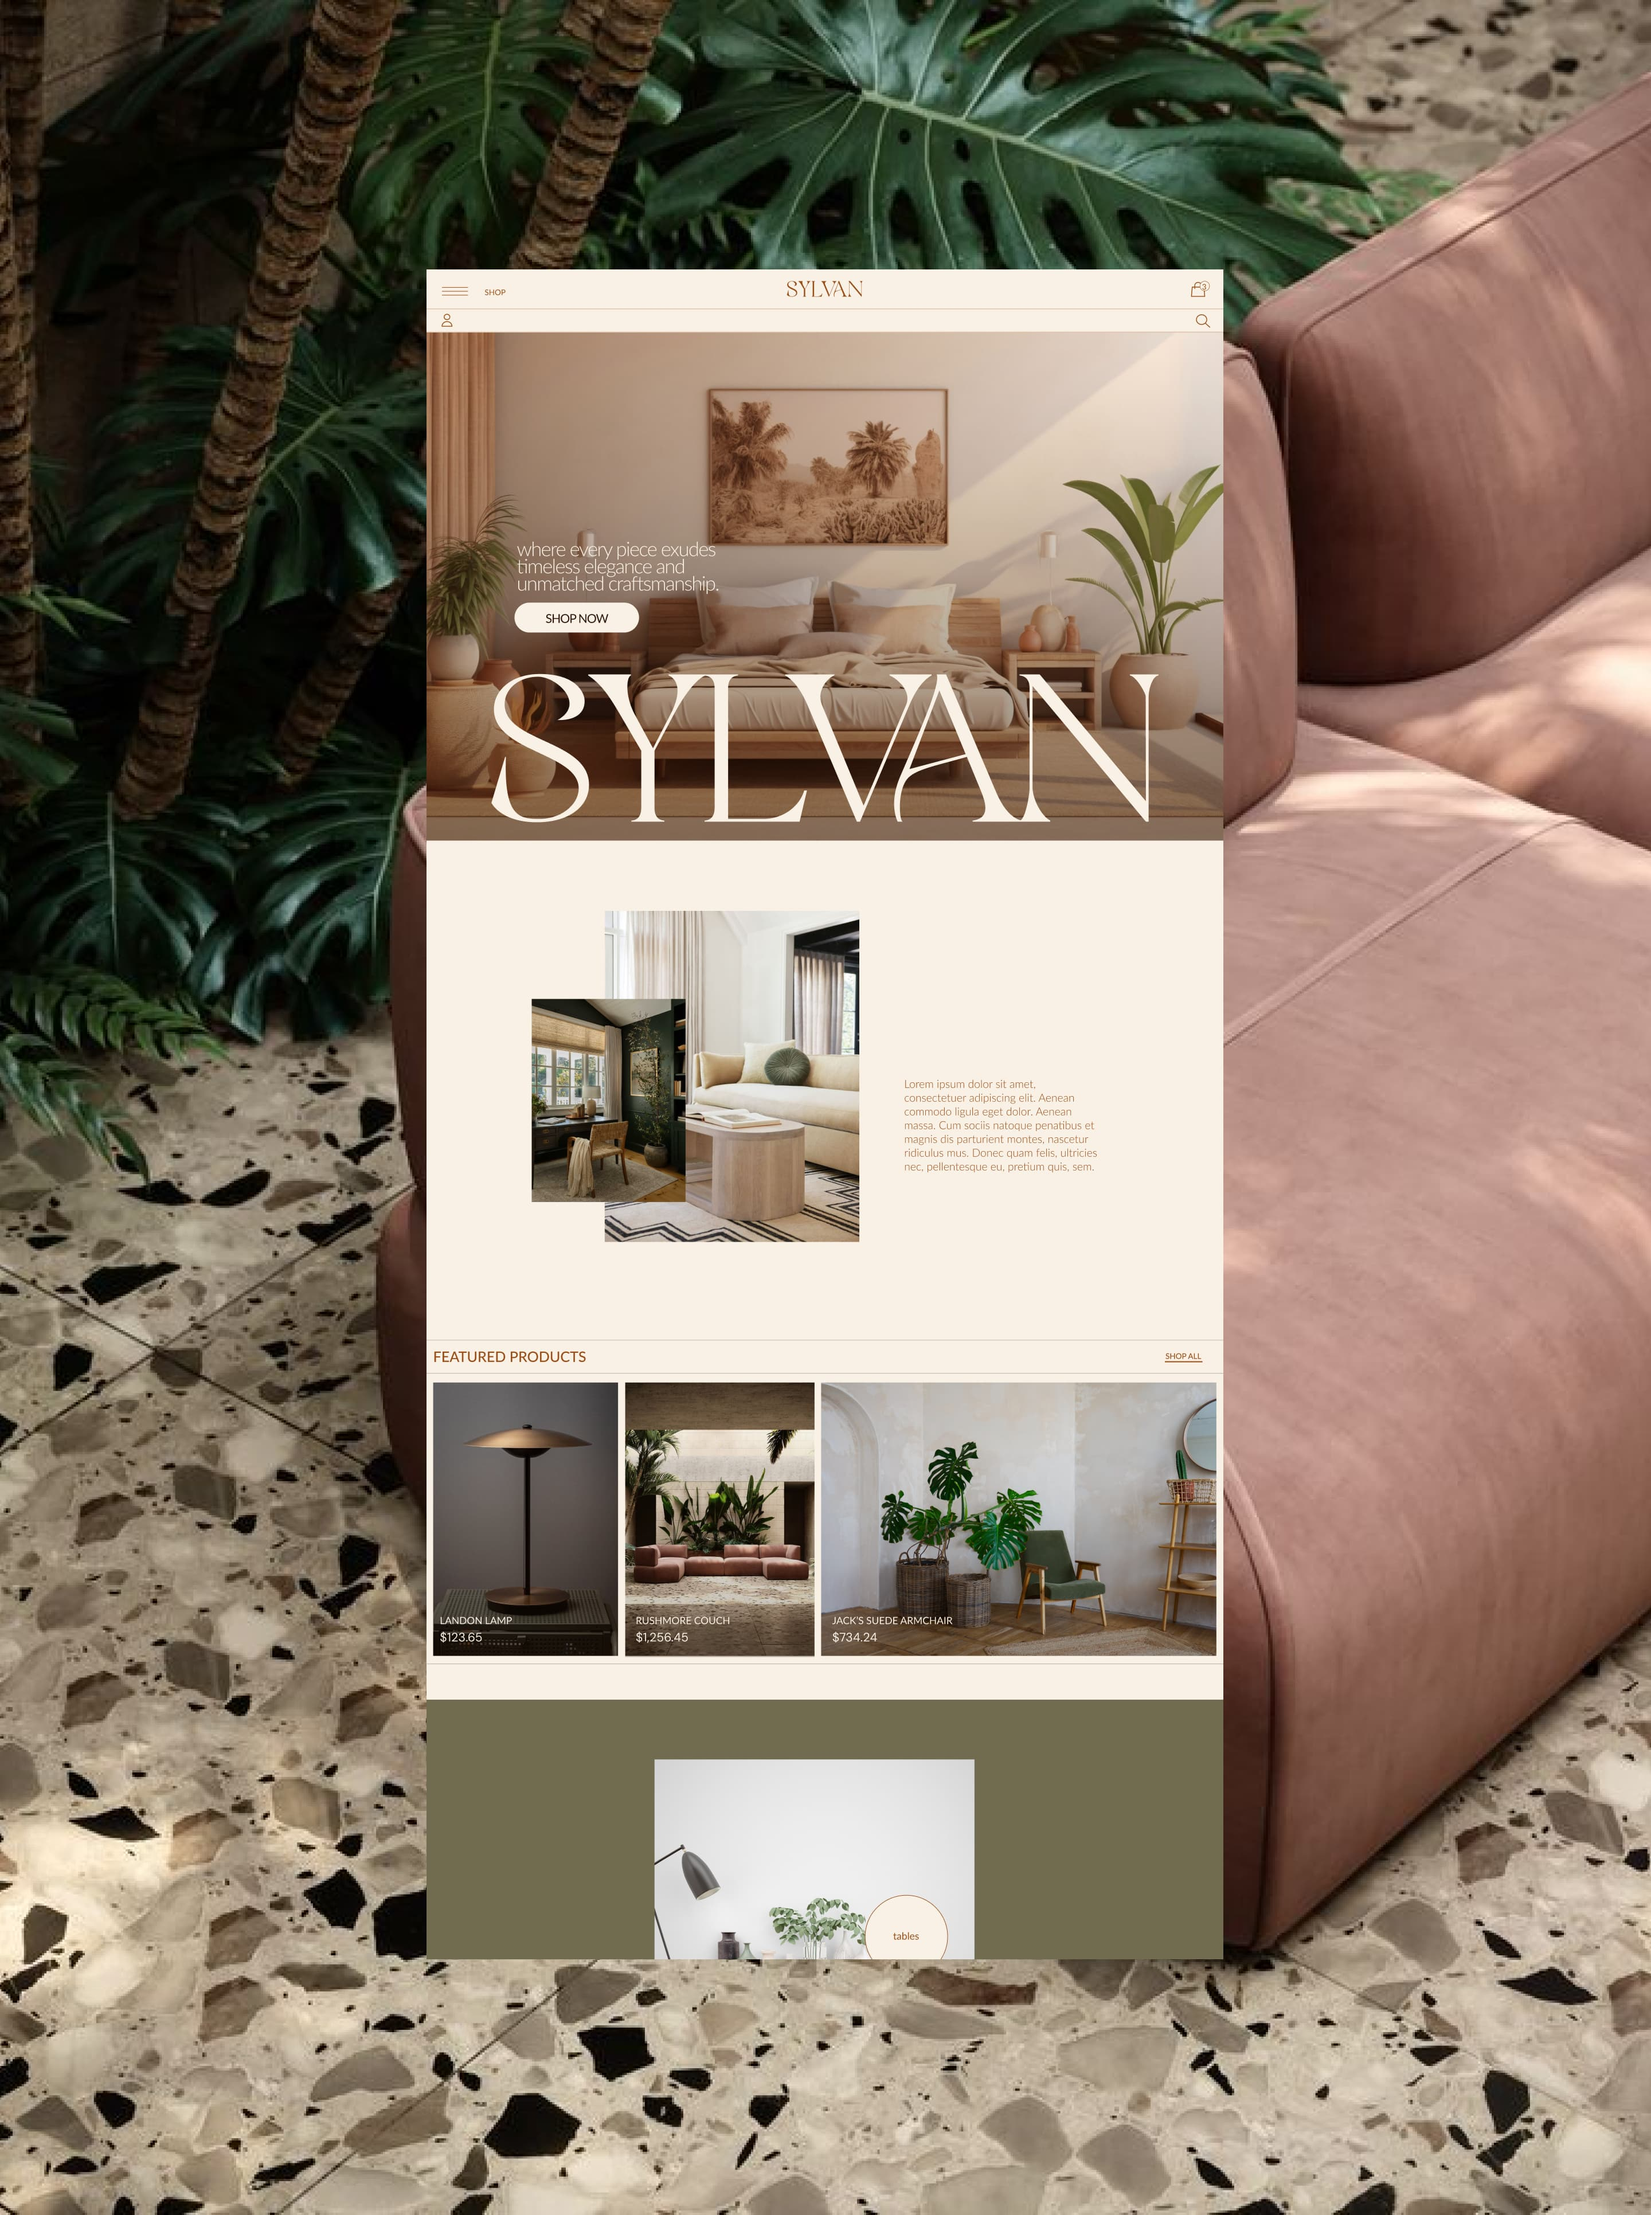
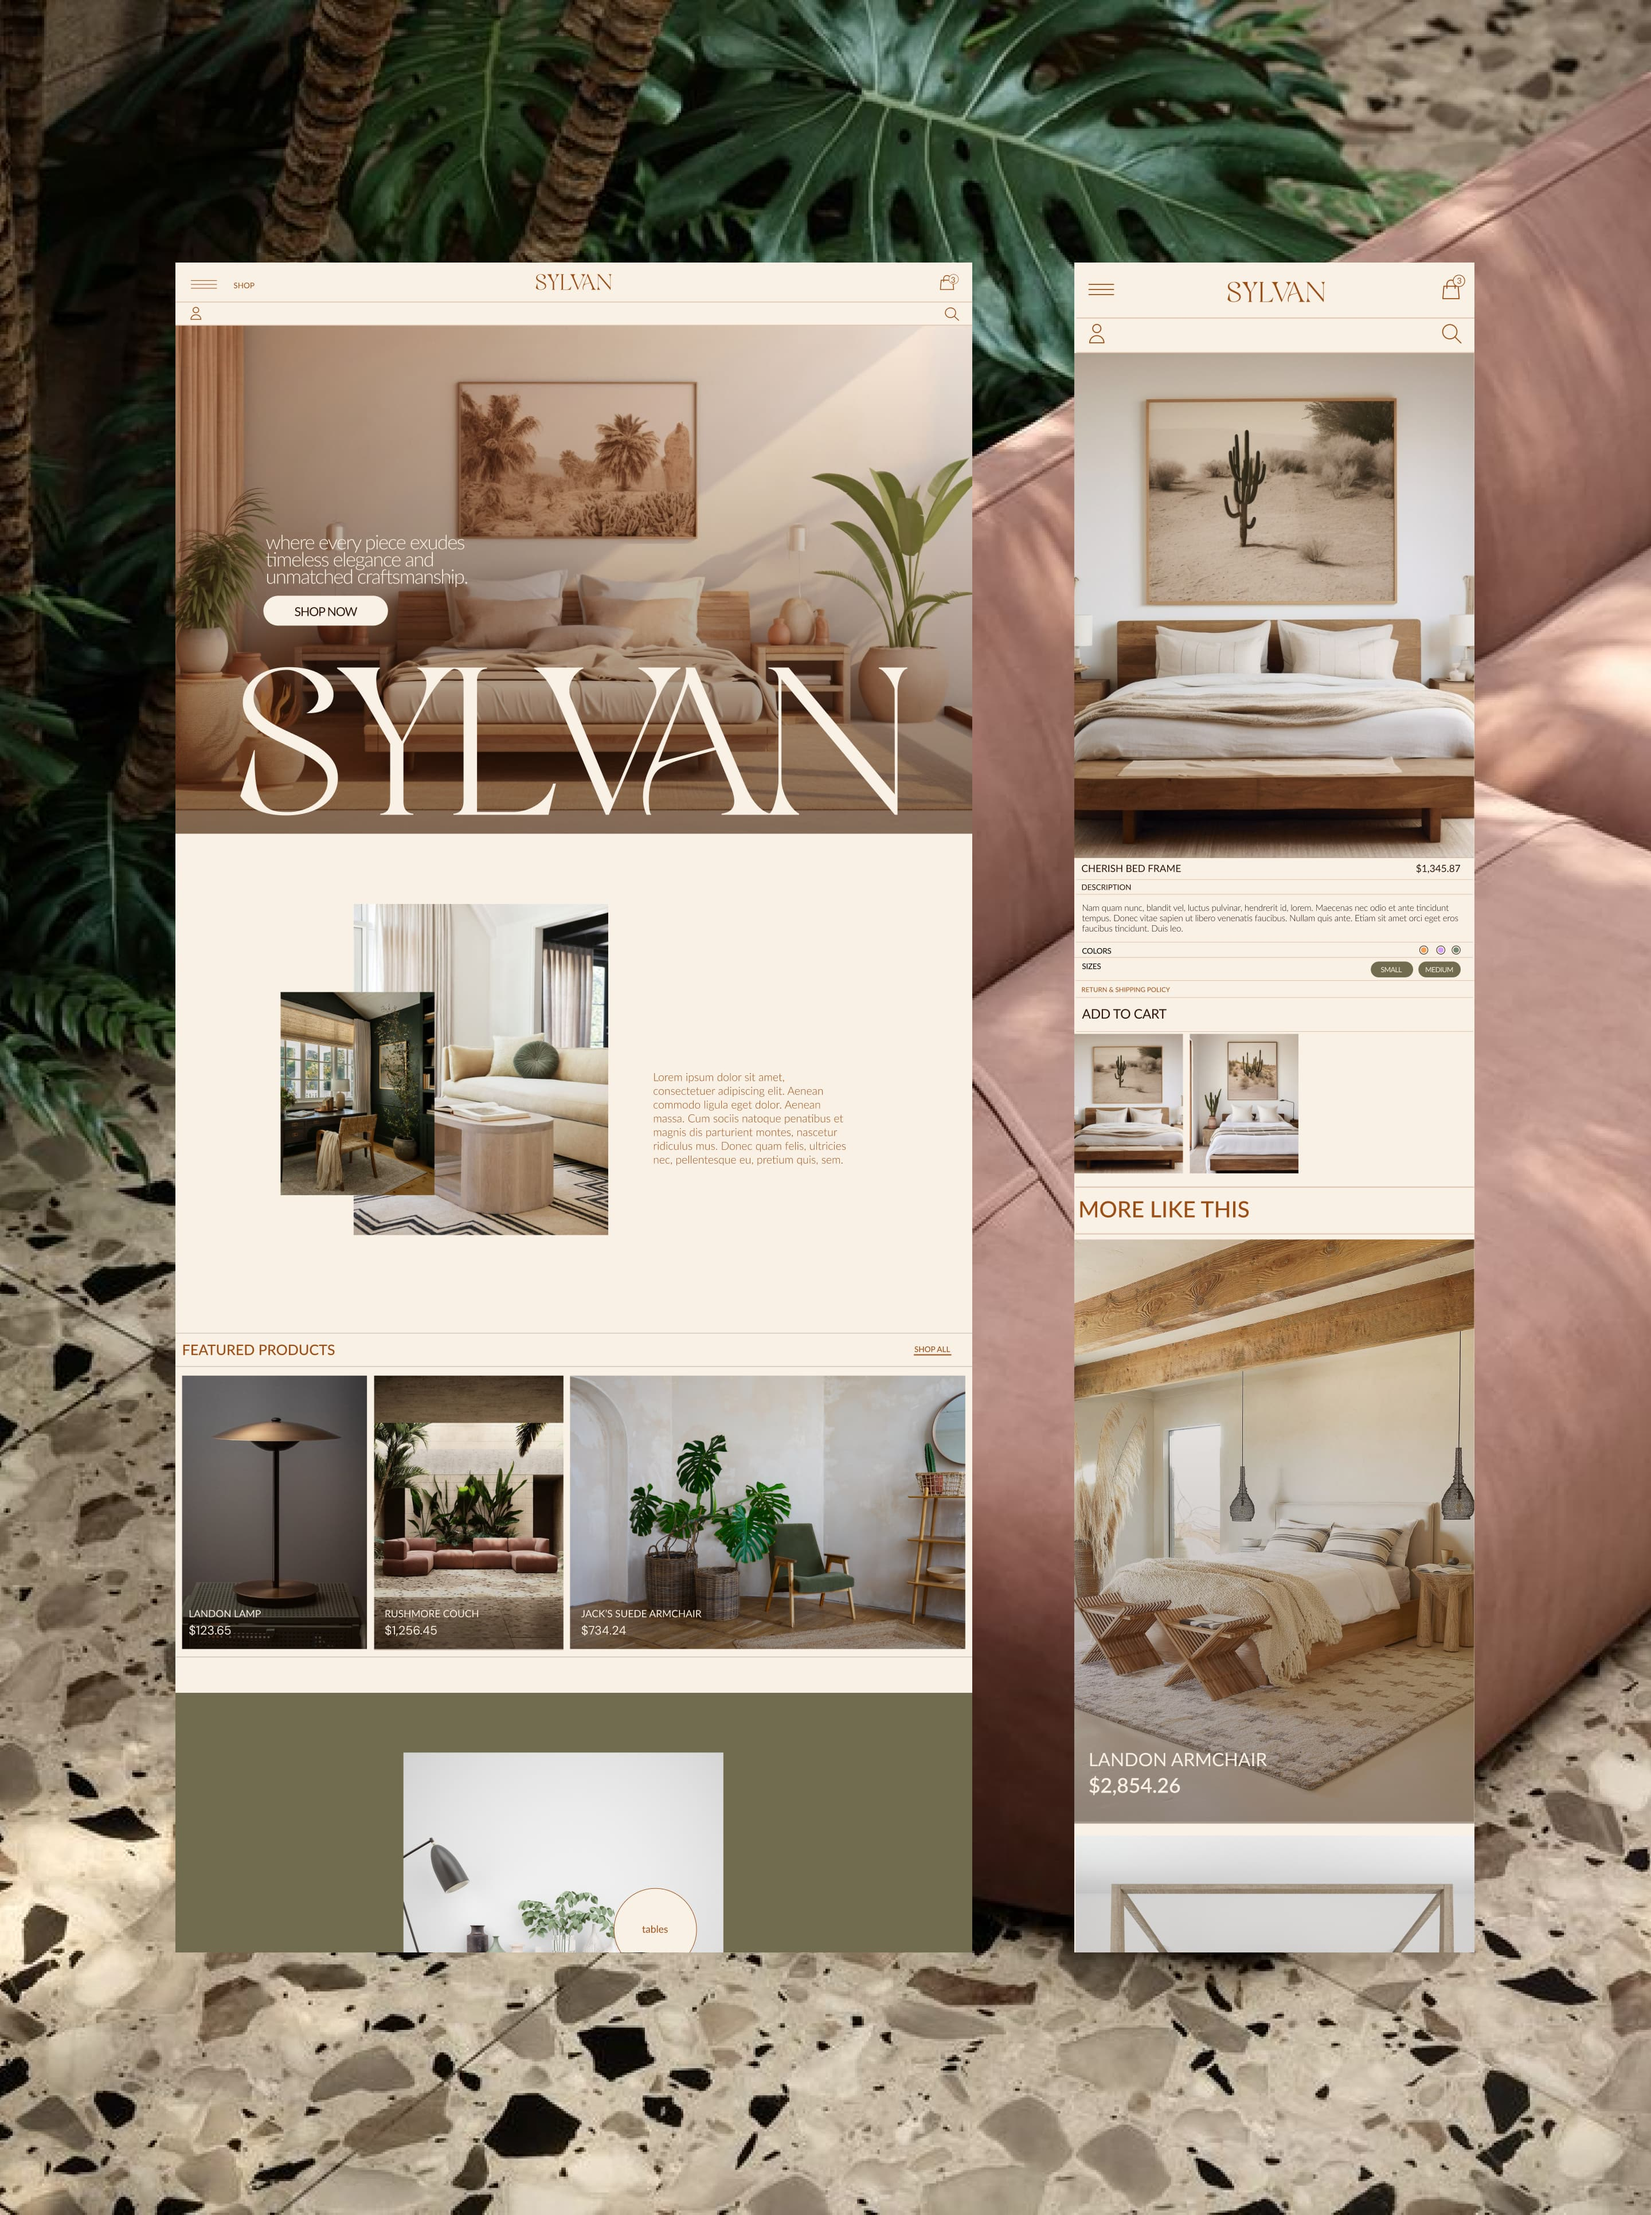
added animations

diff --git a/src/components/Home/About.tsx b/src/components/Home/About.tsx
@@ -7,6 +7,7 @@ import Image from "next/image";
 import Paragraph from "../Paragraph";
 import { useGSAP } from "@gsap/react";
 import gsap from "gsap";
+import { motion } from "framer-motion";
 
 function About() {
   const image1 = useRef(null);
@@ -15,7 +16,7 @@ function About() {
 
   useGSAP(() => {
     gsap.to(image1.current, {
-      scale: 1.06,
+      y: "10%",
       ease: "power1.inOut",
       scrollTrigger: {
         trigger: image1.current,
@@ -24,7 +25,7 @@ function About() {
         scrub: true,
       },
     });
-    
+
     var tl = gsap.timeline({
       ease: "power1.inOut",
       scrollTrigger: {
@@ -36,42 +37,71 @@ function About() {
     });
 
     tl.from(image2Div.current, {
-      yPercent: 10
+      yPercent: 10,
     }).to(image2Div.current, {
       yPercent: -5,
     });
   });
 
+  const textVariant = {
+    initial: {
+      y: "120%",
+      rotateZ: 5
+    },
+    animate: {
+      y: 0,
+      rotateZ: 0,
+      transition: {
+        duration: 1,
+        ease: [0.87, 0, 0.13, 1],
+        // delay: .2
+      }
+    }
+  }
+
   return (
     <section className="py-[15vh]">
       <div>
-        <h3
-          className={`${spectralBridgeRegular.className} text-[5.5vw] pr-[15vw] leading-[1]`}
-        >
-          I promote <span className="italic">fresh</span> and creative{" "}
-          <span className="italic">ideas</span> and bring them to life.
-        </h3>
-        <h3
-          className={`${spectralBridgeRegular.className} text-[5.5vw] pl-[15vw] leading-[1]`}
-        >
-          With my skills, I <span className="italic">deliver </span>
-          quality products from start to <span className="italic">
-            finish
-          </span>{" "}
-          .
-        </h3>
+        <div className="overflow-hidden">
+          <motion.h3
+            variants={textVariant}
+            initial="initial"
+            whileInView="animate"
+            viewport={{ once: true }}
+            className={`${spectralBridgeRegular.className} text-[5.5vw] pr-[15vw] leading-[1]`}
+          >
+            I promote <span className="italic">fresh</span> and creative{" "}
+            <span className="italic">ideas</span> and bring them to life.
+          </motion.h3>
+        </div>
+        <div className="overflow-hidden">
+          <motion.h3
+            variants={textVariant}
+            initial="initial"
+            whileInView="animate"
+            viewport={{ once: true }}
+            className={`${spectralBridgeRegular.className} text-[5.5vw] pl-[15vw] leading-[1]`}
+          >
+            With my skills, I <span className="italic">deliver </span>
+            quality products from start to{" "}
+            <span className="italic">finish</span> .
+          </motion.h3>
+        </div>
       </div>
       <div className="mt-10 flex flex-col-reverse md:flex-row gap-y-4 md:gap-y-0 md:max-h-screen">
         <div className="md:flex-1 object-cover object-center overflow-hidden">
           <Image
             src={Image1}
             alt="sjsh"
-            className="w-full h-full"
+            className="w-full h-full scale-110"
             ref={image1}
           />
         </div>
         <div className="md:flex-1 flex justify-center items-center">
-          <div className="w-full h-full md:w-[80%] md:h-[80%] object-cover object-left-top overflow-hidden" ref={image2Div}>
+          <div
+            className="w-full h-full md:w-[80%] md:h-[80%] object-cover object-left-top overflow-hidden"
+            ref={image2Div}
+          >
             <Image
               src={Image2}
               alt="sjsh"

diff --git a/src/utils/works.ts b/src/utils/works.ts
@@ -8,7 +8,7 @@ import ElysianOutro2 from '../../public/images/elysian/imagesOutro2.jpg'
 import ElysianOutro3 from '../../public/images/elysian/imagesOutro3.png'
 import ElysianIntro from '../../public/images/elysian/introImage.png'
 
-import SylvanMiddle1 from '../../public/images/sylvan/imagesMiddle1.png'
+import SylvanMiddle1 from '../../public/images/sylvan/imagesMiddle1.jpg'
 import SylvanMiddle2 from '../../public/images/sylvan/imagesMiddle2.png'
 import SylvanMiddle3 from '../../public/images/sylvan/imagesMiddle3.jpg'
 import SylvanOutro1 from '../../public/images/sylvan/imagesOutro1.jpg'
@@ -29,8 +29,8 @@ import LofiMiddle1 from '../../public/images/lofi_train/imagesMiddle1.gif'
 import LofiMiddle2 from '../../public/images/lofi_train/imagesMiddle2.jpg'
 import LofiMiddle3 from '../../public/images/lofi_train/imagesMiddle3.jpg'
 import LofiOutro1 from '../../public/images/lofi_train/imagesOutro1.gif'
-import LofiOutro2 from '../../public/images/lofi_train/imagesOutro2.png'
-import LofiOutro3 from '../../public/images/lofi_train/imagesOutro3.png'
+import LofiOutro2 from '../../public/images/lofi_train/imagesOutro2.jpg'
+import LofiOutro3 from '../../public/images/lofi_train/imagesOutro3.jpg'
 import LofiIntro from '../../public/images/lofi_train/introImage.jpg'
 
 const projects = [
